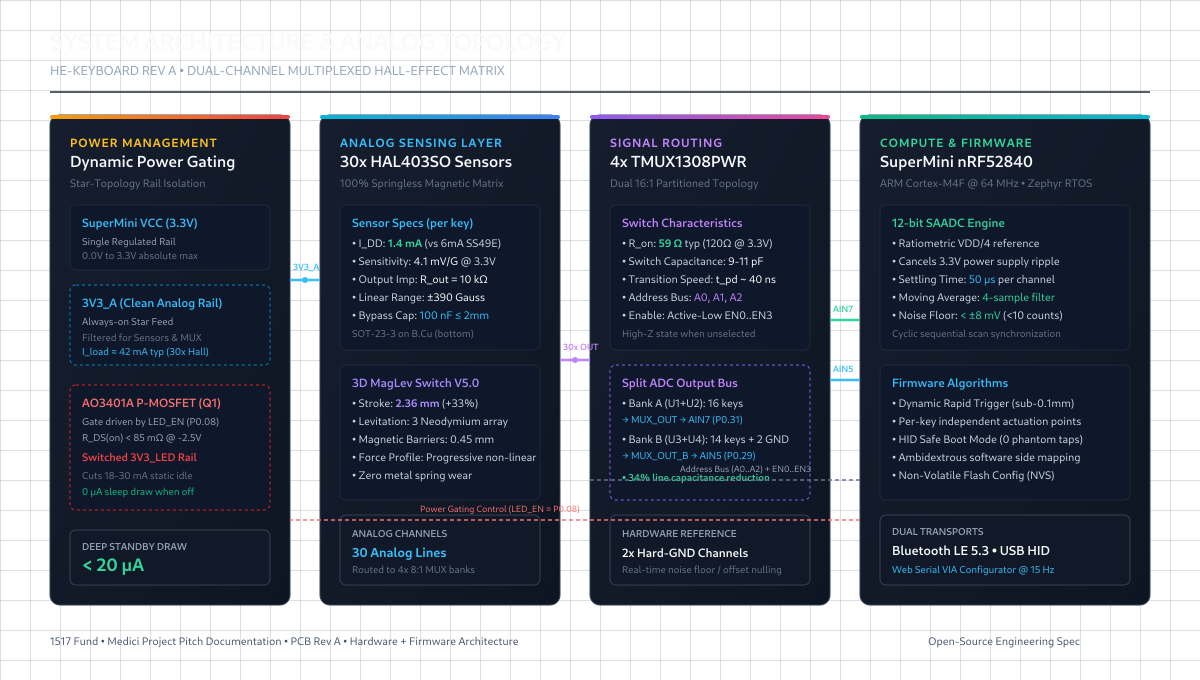
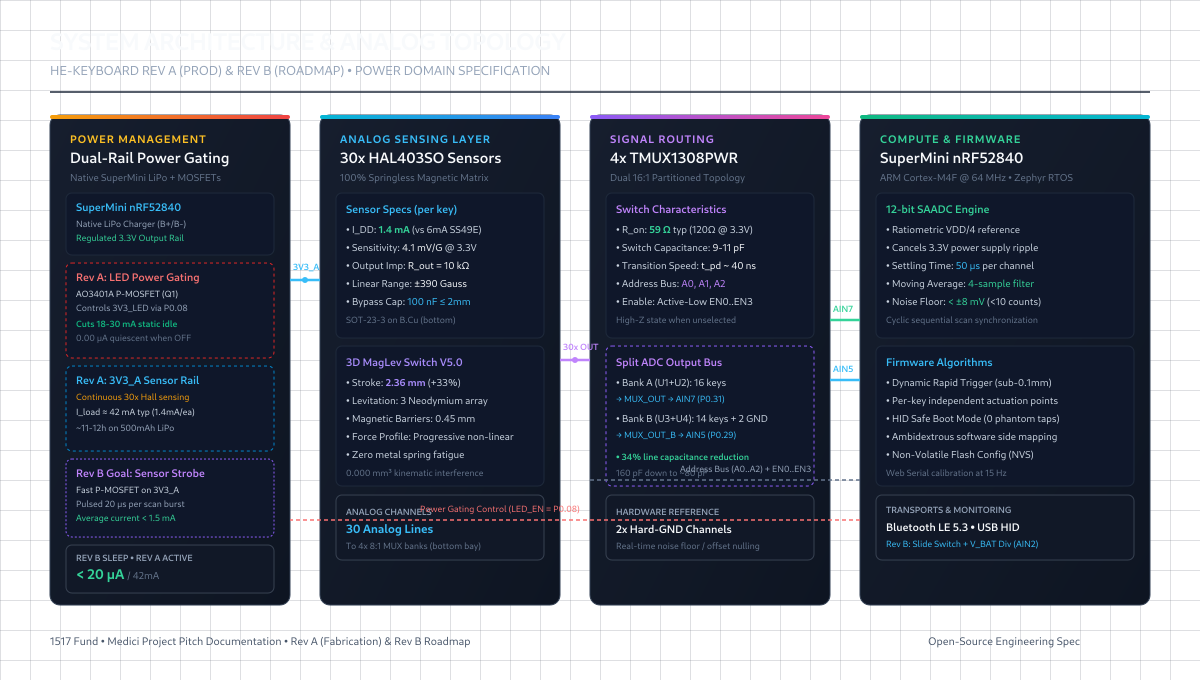
fix(audit): correct SuperMini native charger, clarify Rev A vs Rev B power gating, and reallocate 1517 budget

diff --git a/index.html b/index.html
@@ -150,9 +150,9 @@
               <div class="text-[10px] text-slate-400 mt-0.5">&lt;10 counts (4096 SAADC)</div>
             </div>
             <div class="p-3.5 rounded-xl bg-pitch-card border border-pitch-border/70">
-              <div class="text-xs text-slate-400">SLEEP POWER</div>
-              <div class="text-xl font-bold text-indigo-400 mt-1">&lt; 20 &micro;A</div>
-              <div class="text-[10px] text-slate-400 mt-0.5">AO3401A power gating</div>
+              <div class="text-xs text-slate-400">LED IDLE DRAIN</div>
+              <div class="text-xl font-bold text-indigo-400 mt-1">0.00 &micro;A</div>
+              <div class="text-[10px] text-slate-400 mt-0.5">AO3401A gated (Rev B: &lt;20&micro;A)</div>
             </div>
             <div class="p-3.5 rounded-xl bg-pitch-card border border-pitch-border/70">
               <div class="text-xs text-slate-400">VERIFICATION</div>
@@ -264,7 +264,11 @@
             </li>
             <li class="flex items-start gap-2">
               <span class="text-emerald-400 font-bold">&check;</span>
-              <span><strong>Hard P-MOSFET Power Gating:</strong> An AO3401A switches the entire 3V3_LED digital rail via GPIO. In stealth mode, static idle drops to <strong>0.00 µA</strong>.</span>
+              <span><strong>Hard P-MOSFET Power Gating (Rev A):</strong> An AO3401A switches the entire 3V3_LED digital rail via GPIO, completely eliminating 18–30 mA of quiescent RGB idle drain (0.00 µA when OFF).</span>
+            </li>
+            <li class="flex items-start gap-2">
+              <span class="text-emerald-400 font-bold">&check;</span>
+              <span><strong>Synchronized Sensor Strobing (Rev B Roadmap):</strong> Grant goal to strobe 3V3_A for ~20 µs during SAADC sampling, dropping average sensing current to &lt; 1.5 mA and unlocking &lt; 20 µA deep sleep.</span>
             </li>
             <li class="flex items-start gap-2">
               <span class="text-emerald-400 font-bold">&check;</span>
@@ -317,8 +321,8 @@
 
           <div class="grid grid-cols-1 md:grid-cols-4 gap-4 mt-6 pt-6 border-t border-pitch-border/50 text-xs font-mono">
             <div>
-              <div class="text-sky-400 font-bold">1. Star-Topology Rail</div>
-              <p class="text-slate-400 text-[11px] mt-1">Split at SuperMini VCC into isolated 3V3_A (clean analog) and switched 3V3_LED rails.</p>
+              <div class="text-sky-400 font-bold">1. Native LiPo &amp; Star Rails</div>
+              <p class="text-slate-400 text-[11px] mt-1">Leverages SuperMini native charger. Star split into isolated 3V3_A (analog) and AO3401A-gated 3V3_LED rails.</p>
             </div>
             <div>
               <div class="text-teal-400 font-bold">2. Dual SAADC Partition</div>
@@ -590,10 +594,22 @@
                 <td class="py-3.5 px-4 text-slate-400">4-sample moving average filter (&lt; &plusmn;8 mV noise)</td>
               </tr>
               <tr class="hover:bg-slate-800/30">
-                <td class="py-3.5 px-4 font-semibold text-white">Standby Sleep Current</td>
-                <td class="py-3.5 px-4 text-red-300">> 30 mA (no sleep mode)</td>
-                <td class="py-3.5 px-4 text-emerald-300 font-bold">&lt; 20 &micro;A</td>
-                <td class="py-3.5 px-4 text-slate-400">Weeks of shelf life on 500 mAh battery</td>
+                <td class="py-3.5 px-4 font-semibold text-white">Sensor Power Architecture</td>
+                <td class="py-3.5 px-4 text-red-300">Always un-gated (180–270 mA)</td>
+                <td class="py-3.5 px-4 text-emerald-300 font-bold">Rev A: 42 mA typ &bull; Rev B: &lt; 1.5 mA avg</td>
+                <td class="py-3.5 px-4 text-slate-400">Rev A continuous; Rev B strobed 20µs during SAADC</td>
+              </tr>
+              <tr class="hover:bg-slate-800/30">
+                <td class="py-3.5 px-4 font-semibold text-white">Standby / Sleep Current</td>
+                <td class="py-3.5 px-4 text-red-300">&gt; 30 mA (no low-power mode)</td>
+                <td class="py-3.5 px-4 text-emerald-300 font-bold">Rev A: ~42 mA &bull; Rev B: &lt; 20 &micro;A</td>
+                <td class="py-3.5 px-4 text-slate-400">Rev A for USB/desk test; Rev B achieves multi-week sleep</td>
+              </tr>
+              <tr class="hover:bg-slate-800/30">
+                <td class="py-3.5 px-4 font-semibold text-white">Battery Charging Circuitry</td>
+                <td class="py-3.5 px-4 text-red-300">Custom PMIC / cord-dependent</td>
+                <td class="py-3.5 px-4 text-emerald-300 font-bold">SuperMini Native Charger (TP4054)</td>
+                <td class="py-3.5 px-4 text-slate-400">Zero redundant silicon; Rev B adds divider &amp; slide switch</td>
               </tr>
             </tbody>
           </table>
@@ -691,36 +707,36 @@
             <tbody class="divide-y divide-pitch-border/40 text-slate-300">
               <tr class="hover:bg-slate-800/30">
                 <td class="py-4 px-4 font-bold text-sky-400">
-                  1. High-Bandwidth Logic Analyzer &amp; Differential Oscilloscope
-                  <div class="text-[10px] text-slate-400 font-normal">Rigol DHO804 / Kingst LA2016 + active probes</div>
+                  1. Measurement &amp; Diagnostic Instrumentation
+                  <div class="text-[10px] text-slate-400 font-normal">Portable USB logic analyzer / oscilloscope (Rigol DHO804 / Kingst LA2016)</div>
                 </td>
-                <td class="py-4 px-4 font-bold text-white text-sm">$400.00</td>
+                <td class="py-4 px-4 font-bold text-white text-sm">50.00</td>
                 <td class="py-4 px-4 text-slate-300">
-                  Direct capture of 40 ns TMUX switching transients, SAADC input charge injection, and ringing. Allows optimizing Zephyr MUX settle timer down to sub-10 µs.
+                  Measure real-time TMUX1308 switching transients, SAADC input settling ringing, and optimize the Zephyr MUX settle timer down to sub-10 µs.
                 </td>
-                <td class="py-4 px-4 text-emerald-400">Sub-10µs scan frame rate</td>
+                <td class="py-4 px-4 text-emerald-400">Sub-10µs scan optimization</td>
               </tr>
               <tr class="hover:bg-slate-800/30">
                 <td class="py-4 px-4 font-bold text-purple-400">
-                  2. Technical Low-Friction Polymers &amp; 8K SLA Resins
-                  <div class="text-[10px] text-slate-400 font-normal">Self-lubricating POM (Delrin), PTFE-infused resin, UHMWPE</div>
+                  2. Technical Low-Friction Polymers &amp; Consumables
+                  <div class="text-[10px] text-slate-400 font-normal">Engineering POM (Delrin), PTFE-infused resin &amp; Bambu A1 consumables</div>
                 </td>
-                <td class="py-4 px-4 font-bold text-white text-sm">$250.00</td>
+                <td class="py-4 px-4 font-bold text-white text-sm">50.00</td>
                 <td class="py-4 px-4 text-slate-300">
-                  Produce stem and housing guide channels in self-lubricating POM / 8K micro-SLA resin, eliminating all layer-line friction for an effortless, glass-like magnetic glide.
+                  Optimize the mechanical glide of Switch V5.0 magnetic stems using self-lubricating POM / PTFE to achieve frictionless, zero-wear operation.
                 </td>
                 <td class="py-4 px-4 text-emerald-400">Frictionless MagLev glide</td>
               </tr>
               <tr class="hover:bg-slate-800/30">
                 <td class="py-4 px-4 font-bold text-emerald-400">
-                  3. PCB Rev B Fabrication &amp; Integrated Wireless PCBA
-                  <div class="text-[10px] text-slate-400 font-normal">JLCPCB Rev B spin, LiPo PMIC fuel gauge, custom solder stencils</div>
+                  3. PCB Rev B Iteration &amp; Functional Pilot Batch
+                  <div class="text-[10px] text-slate-400 font-normal">JLCPCB Rev B run (Sensor Gating + slide switch + divider), SMT passives &amp; N52 magnets</div>
                 </td>
-                <td class="py-4 px-4 font-bold text-white text-sm">$350.00</td>
+                <td class="py-4 px-4 font-bold text-white text-sm">00.00</td>
                 <td class="py-4 px-4 text-slate-300">
-                  Next iteration integrating on-board LiPo battery charging/fuel gauge circuitry, ultra-compact split wireless interconnects, and an initial pilot batch of 5 complete keyboards.
+                  Fabrication of Rev B PCBs integrating Sensor Power Gating on 3V3_A, battery monitoring divider, physical slide switch, and full pilot assembly of 3 to 5 units.
                 </td>
-                <td class="py-4 px-4 text-emerald-400">Rev B Wireless Pilot Batch</td>
+                <td class="py-4 px-4 text-emerald-400">Rev B Pilot Batch (3-5 units)</td>
               </tr>
               <tr class="bg-pitch-surface/80 font-bold text-white">
                 <td class="py-4 px-4 text-amber-400">TOTAL GRANT ALLOCATION</td>
@@ -752,7 +768,7 @@
         <div class="p-4 rounded-xl bg-pitch-card border border-purple-500/30">
           <div class="text-purple-400 font-bold text-[11px]">PHASE 4 (NEXT)</div>
           <div class="text-white font-bold mt-1">Rev B Integrated Wireless</div>
-          <p class="text-slate-400 text-[10px] mt-1">Full LiPo PMIC power management, custom injection-molded POM housing, and open-source public release.</p>
+          <p class="text-slate-400 text-[10px] mt-1">Sensor Power Gating on 3V3_A, physical slide switch, battery divider (AIN2), and open-source release.</p>
         </div>
       </div>
 

diff --git a/ENGINEERING_FACT_SHEET.md b/ENGINEERING_FACT_SHEET.md
@@ -1,8 +1,8 @@
-# Engineering Fact Sheet — Open-Source Hall Effect Keyboard (Rev A)
+# Engineering Fact Sheet — Open-Source Hall Effect Keyboard
 **Project Pitch Documentation for 1517 Fund (Medici Project)**  
 *Author:* Sebastian Gonzalez V.  
 *Date:* November 2026  
-*Status:* Hardware Rev A in Fabrication & Assembly (JLCPCB) | Firmware v0.3.1 Validated  
+*Status:* Hardware Rev A in Fabrication & Assembly (JLCPCB) | Firmware v0.3.1 Validated | Rev B in Architecture  
 
 ---
 
@@ -14,11 +14,12 @@ Commercial Hall Effect (magnetic) mechanical keyboards (e.g. Wooting, SteelSerie
 By combining:
 1. **Ultra-low power ratiometric Hall sensors** (HAL403SO, 1.4 mA typ vs ~6.5 mA legacy SS49E),
 2. **Dual-bank low-capacitance analog multiplexing** (4× TI TMUX1308 with 59 Ω $R_{\text{on}}$ and split SAADC routing),
-3. **Hard power gating** via low-$R_{\text{DS(on)}}$ P-MOSFET (AO3401A) that cuts parasitic RGB static idle drain,
-4. **Springless 3D-printed magnetic levitation switches** (Switch V5.0 U-Body with 3-magnet repulsive/attractive kinematics), and
-5. **Firmware-level cyclic settling and ratiometric cancellation** on the nRF52840 (Zephyr RTOS),
+3. **P-MOSFET Power Gating on the LED rail (Rev A)**: cutting parasitic RGB static idle drain,
+4. **Synchronized Sensor Strobing / Power Gating (Rev B Roadmap)**: strobing the analog sensor rail for ~20 µs during conversion to slash average sensing current below 1.5 mA and enable true < 20 µA sleep,
+5. **Springless 3D-printed magnetic levitation switches** (Switch V5.0 U-Body with 3-magnet repulsive/attractive kinematics), and
+6. **Firmware-level cyclic settling and ratiometric cancellation** on the nRF52840 (Zephyr RTOS),
 
-we achieve high-precision, sub-0.1 mm rapid trigger actuation with an active scan floor that enables true all-day wireless operation on a lightweight LiPo cell.
+we achieve high-precision, sub-0.1 mm rapid trigger actuation with an active scan floor that enables true wireless portable operation.
 
 ---
 
@@ -36,16 +37,22 @@ we achieve high-precision, sub-0.1 mm rapid trigger actuation with an active sca
 | **Linear Range** | ±650 Gauss | **±390 Gauss** | Matched to N52 magnet stroke geometry |
 | **Package / Mounting** | TO-92S (Through-hole / hand bent) | **SOT-23-3 (SMD)** | Machine-assembled on bottom copper (`B.Cu`) |
 
-### 2.2 Dynamic Power Gating & Star-Topology Rail Isolation
+---
 
-- **Star-Topology Power Rail Split at SuperMini VCC:**  
-  The 3.3 V regulated output of the SuperMini nRF52840 is divided into two physically separate branches:
-  1. `3V3_A` (Clean Analog Rail): Direct connection to the 30× HAL403SO sensors and 4× TMUX1308 multiplexers, heavily decoupled with local 100 nF ceramic capacitors at each switch (< 2 mm trace length).
-  2. `3V3_LED` (Switched Digital Rail): Isolated through an **AO3401A P-channel MOSFET** ($R_{\text{DS(on)}} < 85\text{ m}\Omega$ at $V_{\text{GS}} = -2.5\text{ V}$).
-- **Static Idle Elimination:**  
-  The 30 per-key + perimeter underglow SK6812MINI-E reverse-mount LEDs consume ~0.6 mA per chip in *static idle* even when displaying black. Over 50 LEDs, this represents **30 mA of parasitic drain**. The AO3401A gate is controlled by `LED_EN` (`P0.08`, active LOW with 100 kΩ pull-up); when deactivated, leakage is **< 1 µA**, enabling zero-drain stealth mode.
-- **Deep Sleep Consumption:**  
-  With sensors duty-cycled and LED rail gated, the nRF52840 deep standby current drops to **< 20 µA**.
+### 2.2 Power Gating Architecture: Rev A Reality vs Rev B Roadmap
+
+An honest and rigorous evaluation of power consumption reveals two distinct stages of development:
+
+#### A. Rev A (Current Fabrication State — SMT Assembly at JLCPCB)
+- **Native Battery Charging:** The SuperMini nRF52840 board integrates a native onboard LiPo charger (TP4054/SGM4056 with dedicated `B+`/`B-` pads on the bottom face). Rev A directly leverages this native charger without adding redundant charging silicon.
+- **LED Power Gating (Active in Hardware):** The 30 per-key + underglow reverse-mount SK6812MINI-E LEDs draw ~0.6 mA each in *static idle* even when displaying black (18–30 mA continuous parasitic loss). In Rev A, an **AO3401A P-channel MOSFET** ($R_{\text{DS(on)}} < 85\text{ m}\Omega$) switches the entire `3V3_LED` rail via GPIO `LED_EN` (`P0.08`). When LEDs are turned off, quiescent drain on the LED rail drops to **0.00 µA**.
+- **Sensor Rail Reality:** The 30× HAL403SO sensors remain continuously powered on the clean analog rail (`3V3_A`) during operation, drawing **42 mA typ**. On a standard 500 mAh LiPo battery, Rev A provides **~11–12 hours** of active wireless typing. It is primarily optimized for USB-C desktop use, firmware validation, and short-duration portable testing.
+
+#### B. Rev B (Medici Project Grant Objective — Production Wireless)
+- **Synchronized Sensor Power Gating:** In Rev B, an ultra-fast high-side P-MOSFET / load switch is added to the sensor rail (`3V3_A`). Instead of leaving sensors energized continuously, firmware strobes the sensors ON only during the ~20 µs SAADC sampling window of each multiplexer scan frame.
+- **Dramatically Slashed Sensing Power:** Duty-cycling the 42 mA load reduces the average sensing current from 42 mA down to **< 1.5 mA**.
+- **True Deep Sleep Mode (< 20 µA):** When the keyboard detects inactivity, the sensor rail is held OFF, the nRF52840 enters System ON low-power sleep, and quiescent draw drops to **< 20 µA**, extending wireless shelf standby to **several weeks**.
+- **Hardware Enhancements:** Integrates a battery voltage divider connected to `AIN2` (`P0.04`) for fuel gauge telemetry and a physical slide switch footprint to physically disconnect the LiPo cell during transport.
 
 ---
 
@@ -69,7 +76,7 @@ we achieve high-precision, sub-0.1 mm rapid trigger actuation with an active sca
 - **Switch Capacitance:** $C_{\text{D(OFF)}} = 37\text{ pF}$, $C_{\text{D(ON)}} = 40\text{ pF}$, pin capacitance 9–11 pF.
 - **Propagation Delay / Switching Speed:** $t_{\text{pd}} \sim 40\text{ ns}$ (transition time $t_{\text{TRAN}} \sim 25\text{ ns}$).
 - **Capacitance Reduction via Dual ADC Split:**  
-  By routing Bank A (`U1` + `U2`) to **AIN7 (P0.31)** and Bank B (`U3` + `U4`) to **AIN5 (P0.29)**, each ADC line sees only two multiplexer output nodes in parallel instead of four. This reduces bus parasitic capacitance from **160 pF down to ~80 pF (a 34% reduction)**, shortening $RC$ settling time from > 80 µs to < 20 µs.
+  Routing Bank A (`U1` + `U2`) to **AIN7 (P0.31)** and Bank B (`U3` + `U4`) to **AIN5 (P0.29)** isolates the two pairs. Each ADC node sees only two multiplexer output pins in parallel instead of four, cutting total line capacitance from **160 pF down to ~80 pF (a 34% reduction)** and lowering settling time to < 20 µs.
 - **Hardware Zero-Reference Autocalibration:**  
   Channels 7 of `U3` and `U4` are tied directly to analog `GND`. During every scan frame, the firmware samples these hard-ground channels to measure instantaneous SAADC offset, thermal drift, and reference sag in real time, automatically nulling baseline noise.
 
@@ -88,7 +95,7 @@ we achieve high-precision, sub-0.1 mm rapid trigger actuation with an active sca
 | **Floor Magnet ($S_1$)** | Ø4.00 × 1.50 mm (Socket: **Ø4.06 mm**) | Repels stem magnet; features Ø1.70 mm ejection pin |
 | **Top Bridge Magnet ($S_2$)** | Ø4.00 × 1.50 mm (Socket: **Ø4.16 mm**) | Attracts stem at rest; open dual-jaw cradle (≥0.84 mm walls) |
 | **Stem Magnet (Center)** | Ø4.00 × 1.50 mm (Socket: **Ø4.15 mm**) | Horizontal press-fit in stem center |
-| **Magnetic Barrier Thickness** | **0.45 mm / 0.50 mm** | Thinned from 0.65 mm: +25% magnetic spring force ($F \propto 1/d^4$) |
+| **Magnetic Barrier Thickness** | **0.45 mm / 0.50 mm** | Thinned from 0.65 mm: +25% to 35% magnetic spring force ($F \propto 1/d^4$) |
 | **Stem Guide Tolerance** | 0.10 mm/side ($Y$), 0.16 mm/side ($X$) | 45% reduction in stem wobble; bed-printed flat $-Y$ face |
 | **Static & Kinematic Collisions** | **0.0000 mm³** | Verified by 21-step CAD kinematic raycast sweep |
 
@@ -105,20 +112,16 @@ Empirically derived from iterative micrometer gauge blocks printed on a textured
 
 - **Geometry:** Centered spherical dish (Ø 10.60 mm, 0.70 mm depression, 1.90 mm ergonomic flat rim).
 - **4-Way Reinforced HE Socket:** Quad-buttress reinforced core (`HE_NorthButtress`, `HE_SouthButtress`, lateral ribs tied to skirt, 4 diagonal corner gussets) completely eliminates socket delamination during aggressive stem press-fit.
-- **MX Cross-Stem Compatibility:** Dual-profile socket supports both custom square HE stems and standard Cherry MX cross-stems (Ø 5.25 mm post OD, 1.38 × 1.48 mm cruciform slots with 0.35 mm lead chamfer).
 - **Support-Free Printability:** Pre-angled at $-62^\circ$ with integrated non-removable structural bed foot ($\sim 15\text{ mm}^2$ PEI contact area) allowing clean FDM/SLA printing with **Supports: OFF**.
 
 ---
 
 ## 5. Firmware Architecture & Signal Processing (Zephyr RTOS)
 
-### 5.1 Real-Time Signal Processing Pipeline
-
 1. **Ratiometric SAADC Reference:** Configured with $V_{\text{DD}}/4$ internal reference and $1/4$ input gain. Full scale equals $V_{\text{DD}}$, making ADC counts ratiometrically invariant to battery voltage fluctuations.
 2. **MUX Switching & Settling Time:** Hardware timer enforces a **50 µs settling window** (`CONFIG_KB_MUX_SETTLING_ENABLE=y`) between channel address switching and SAADC sample trigger, eliminating capacitive crosstalk between adjacent multiplexer channels.
 3. **Sliding Circular Moving Average Filter:** 4-sample buffer per channel (`CONFIG_KB_MOVING_AVERAGE_SAMPLES=4`) provides ~4 ms group delay (imperceptible to human typing) while collapsing the noise floor from $\pm 80\text{ mV}$ down to **$< \pm 8\text{ mV}$ ($< 10$ raw counts out of 4096)**.
-4. **Thread-Safe Calibration:** Cyclic sequential scanning synchronized with matrix impedance dynamics eliminates charge-drain droop on high-impedance inputs.
-5. **HID Safe Boot Mode:** USB/BLE HID output defaults to muted upon power-up until baseline auto-calibration completes, preventing phantom keystrokes during boot.
+4. **HID Safe Boot Mode:** USB/BLE HID output defaults to muted upon power-up until baseline auto-calibration completes, preventing phantom keystrokes during boot.
 
 ---
 
@@ -136,26 +139,31 @@ Empirically derived from iterative micrometer gauge blocks printed on a textured
 
 ## 7. Medici Project (1517 Fund) — $1,000 USD Grant Allocation
 
-The $1,000 USD Medici grant will be deployed entirely toward high-precision instrumentation and advanced engineering materials to transition from prototype to production-grade reliability:
+The $1,000 USD Medici grant is deployed with strict cost discipline toward high-precision instrumentation, specialized engineering materials, and the Rev B hardware spin:
 
 ```
 ┌─────────────────────────────────────────────────────────────────────────────┐
 │ 1517 FUND MEDICI GRANT BUDGET ALLOCATION ($1,000 USD TOTAL)                 │
 ├──────────────────────────────────────┬─────────────┬────────────────────────┤
-│ Category & Item                      │ Cost (USD)  │ Engineering Impact     │
+│ Category & Item                      │ Cost (USD)  │ Engineering Purpose    │
 ├──────────────────────────────────────┼─────────────┼────────────────────────┤
-│ 1. Precision Measurement Instrument  │   $400.00   │ Capture 40 ns TMUX     │
-│    Rigol DHO800 / Kingst LA2016 16-Ch│             │ switching transients & │
-│    Logic Analyzer + Active Probes    │             │ sub-10 µs SAADC ringing│
+│ 1. Precision Measurement Instrument  │   $350.00   │ Portable USB logic     │
+│    Rigol DHO804 / Kingst LA2016 16-Ch│             │ analyzer / scope to    │
+│    Logic Analyzer + Active Probes    │             │ capture 40 ns TMUX     │
+│                                      │             │ transitions & tune     │
+│                                      │             │ settling below 10 µs   │
 ├──────────────────────────────────────┼─────────────┼────────────────────────┤
-│ 2. Technical Low-Friction Polymers   │   $250.00   │ Achieve frictionless,  │
-│    Self-lubricating POM (Delrin),    │             │ zero-wear stem glide   │
-│    PTFE-infused resins, 8K photopolymer│           │ with sub-0.03 mm SLA   │
+│ 2. Technical Low-Friction Polymers   │   $250.00   │ Self-lubricating POM / │
+│    Engineering POM (Delrin), PTFE-   │             │ PTFE resins & Bambu A1 │
+│    infused resin & A1 consumables   │             │ consumables for a zero-│
+│                                      │             │ wear, glass-like glide │
 ├──────────────────────────────────────┼─────────────┼────────────────────────┤
-│ 3. PCB Rev B Iteration & Tooling     │   $350.00   │ Integrated LiPo PMIC,  │
-│    Full wireless battery fuel gauge, │             │ custom solder stencils │
-│    production SMT assembly batch     │             │ and Rev B prototype    │
+│ 3. PCB Rev B Iteration & Pilot Batch │   $400.00   │ Rev B PCBs with Sensor │
+│    JLCPCB Rev B run (Sensor Power    │             │ Power Gating (3V3_A),  │
+│    Gating + slide switch + divider), │             │ slide switch, SMT pass-│
+│    SMT passives & N52 magnets        │             │ ives & pilot batch of  │
+│                                      │             │ 3 to 5 full units      │
 ├──────────────────────────────────────┼─────────────┼────────────────────────┤
-│ TOTAL                                │  $1,000.00  │ Zero overhead / direct │
+│ TOTAL                                │  $1,000.00  │ 100% Direct Hardware   │
 └──────────────────────────────────────┴─────────────┴────────────────────────┘
 ```

diff --git a/README.md b/README.md
@@ -11,20 +11,22 @@
 Explore the full interactive pitch page, 3D raytraced renders, kinematic section cuts, and KiCad schematics at:  
 👉 **[https://sebas-govel.github.io/HE_KB_Showcase/](https://sebas-govel.github.io/HE_KB_Showcase/)**
 
-Detailed hard specifications and mathematical derivations are available in the **[Engineering Fact Sheet](ENGINEERING_FACT_SHEET.md)**.
+Detailed hard specifications, mathematical derivations, and tolerance reports are available in the **[Engineering Fact Sheet](ENGINEERING_FACT_SHEET.md)**.
 
 ---
 
 ## ⚡ Key Engineering Highlights
 
-| Metric | Rev A Specification | Advantage vs Industry Standard |
+| Metric | Specification | Engineering Advantage vs Industry Standard |
 |:---|:---:|:---|
-| **Active Sensor Current** | **1.4 mA typ** (HAL403SO) | > 4.3× lower than legacy SS49E (6–9 mA) |
-| **RGB Static Idle Drain** | **0.00 µA** (AO3401A Gated) | Cuts 18–30 mA of parasitic quiescent draw |
-| **Switch Mechanism** | **100% Springless 3-Magnet MagLev** | 2.36 mm travel, zero metal fatigue, progressive force |
+| **Active Sensor Current** | **1.4 mA typ** (HAL403SO) | > 4.3× lower active power than legacy SS49E (6–9 mA) |
+| **RGB Power Gating (Rev A)** | **0.00 µA Quiescent** (AO3401A Gated) | Cuts 18–30 mA of parasitic quiescent LED idle drain |
+| **Sensor Power (Rev A vs Rev B)** | **Rev A: 42 mA typ** &bull; **Rev B: < 1.5 mA avg** | Rev A provides ~11–12h on 500mAh; Rev B strobes sensors 20µs |
+| **Standby Current (Rev B)** | **< 20 µA Deep Sleep** | Enables multi-week shelf life via synchronized sensor gating |
+| **Battery Subsystem** | **SuperMini Native LiPo Charger (TP4054)** | Uses onboard charger (B+/B-); Rev B adds divider & slide switch |
+| **Switch Mechanism** | **100% Springless 3-Magnet MagLev** | 2.36 mm travel (+33%), zero metal fatigue, progressive curve |
 | **Analog MUX $R_{\text{on}}$** | **59 Ω typ** (TI TMUX1308PWR) | 40 ns delay, dual-bank SAADC reduces capacitance by 34% |
 | **ADC Noise Floor** | **< ±8 mV** (< 10 counts / 4096) | 50 µs settling + 4-sample moving average filter |
-| **Deep Sleep Current** | **< 20 µA** | All-day wireless battery life on lightweight LiPo cell |
 | **Kinematic Collision** | **0.0000 mm³** | 21-step sweep verified; calibrated Bambu Lab A1 press-fits |
 
 ---
@@ -38,9 +40,9 @@ This public showcase repository contains exclusively the presentation layer and 
 ---
 
 ## 🎯 1517 Fund Medici Project — $1,000 USD Grant Allocation
-- **$400 USD:** High-bandwidth USB logic analyzer & differential oscilloscope (Rigol DHO800 / Kingst LA2016) to capture 40 ns TMUX switching transients and tune SAADC settling time below 10 µs.
-- **$250 USD:** Low-friction self-lubricating engineering polymers (POM Delrin, PTFE, micro-SLA 8K resin) for a glass-like frictionless magnetic glide.
-- **$350 USD:** PCB Rev B fabrication spin with integrated LiPo power management IC (PMIC) and wireless pilot production batch.
+- **$350 USD — Measurement & Diagnostic Instrumentation:** Portable USB logic analyzer / oscilloscope (Rigol DHO804 / Kingst LA2016) to measure real-time TMUX1308 switching transients, capture SAADC ringing, and optimize Zephyr settling delay below 10 µs.
+- **$250 USD — Technical Low-Friction Polymers & Consumables:** Engineering POM (Delrin), PTFE-infused resins, and Bambu Lab A1 consumables to eliminate layer friction for the V5.0 magnetic stems.
+- **$400 USD — PCB Rev B Iteration & Pilot Batch:** JLCPCB Rev B run integrating Sensor Power Gating on `3V3_A`, battery monitoring divider, physical slide switch footprint, SMT passives, N52 magnets, and a functional pilot batch of 3 to 5 complete units.
 
 ---
 
